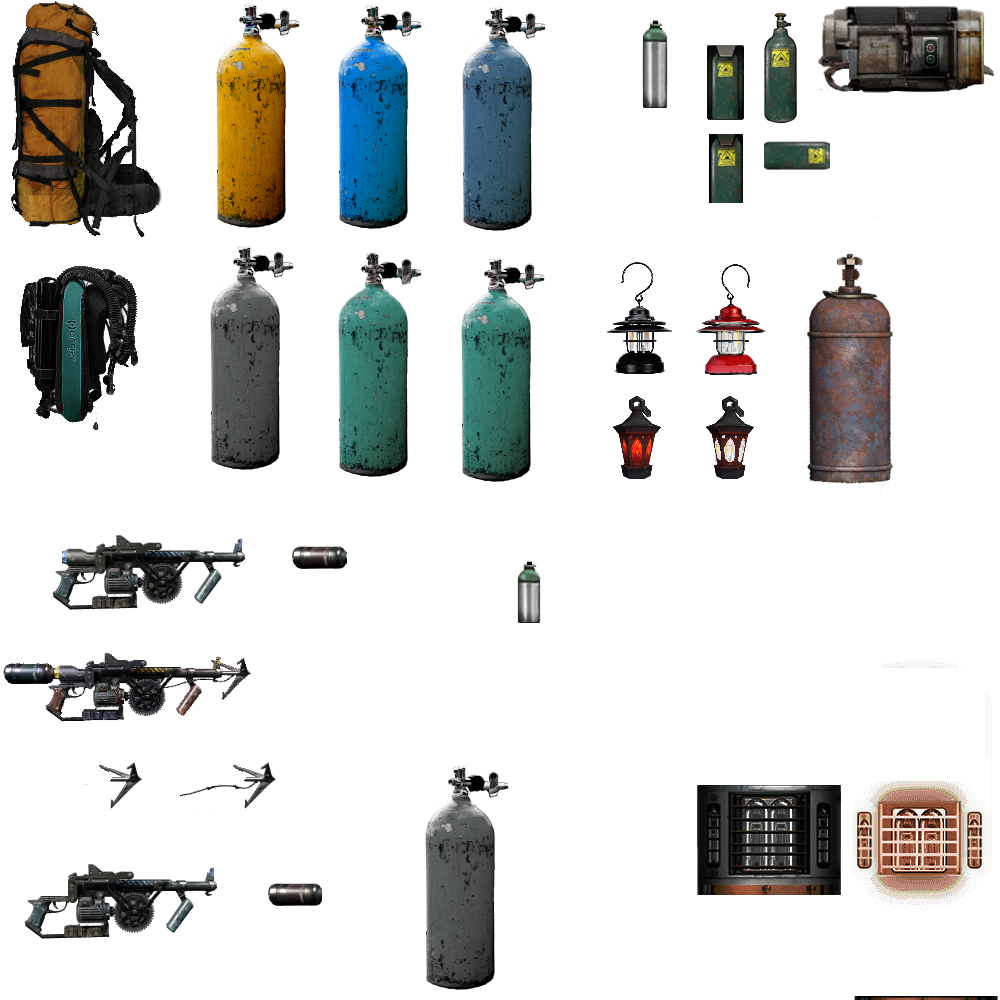
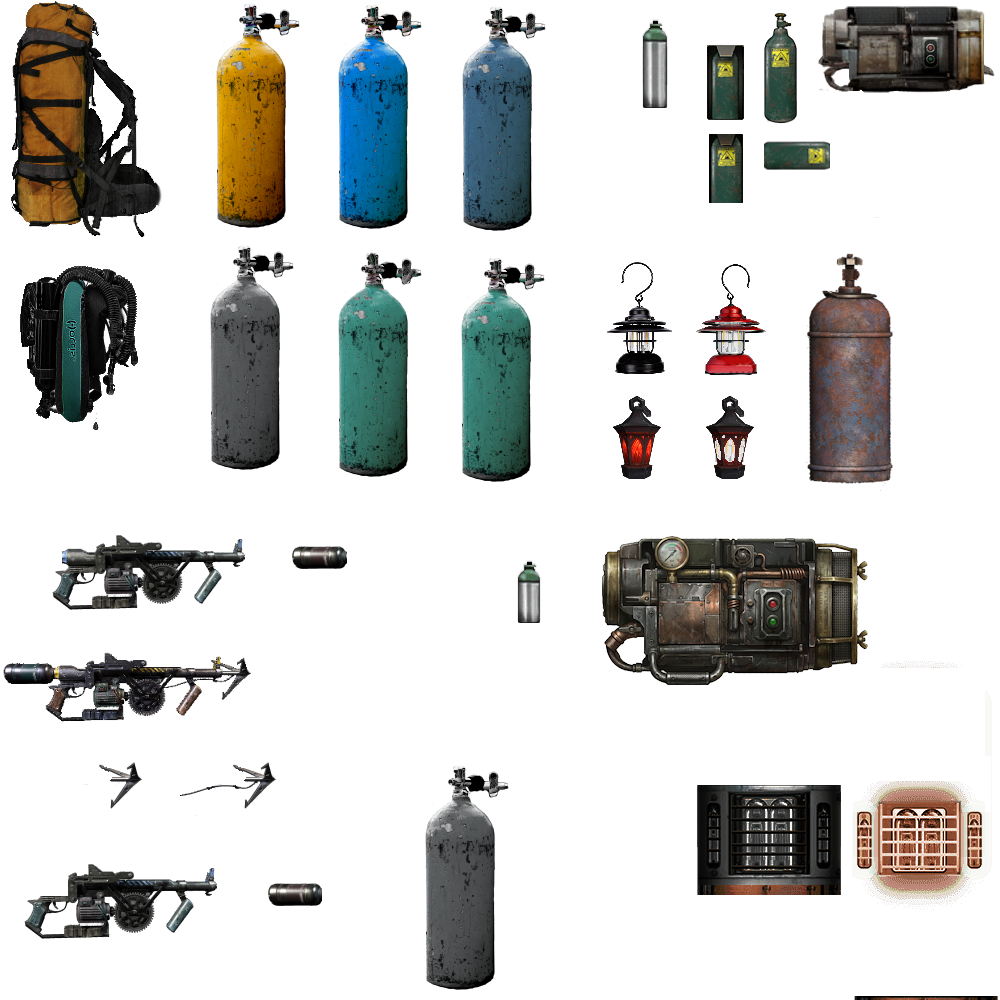
95.1. 1. Added a grapple gun in cave entrance. 2. Added a tooltip for junctionbox switch 3. Changed isgnal_out to mechanical for DieHard waterpump 4. Registered mechanical_slot for customed sprite UI. 5. Added a pipe sprite for mechanical connection 6. Fixed the red wire cannot be fabricated and los

Changed region(s): [[0.589, 0.527, 0.868, 0.682]]

diff --git a/CSharp/2.html b/CSharp/2.html
@@ -1,31 +1,22 @@
-<Item name="" identifier="extinguisherbracket" category="Equipment" tags="extinguisherholder,playinteractsound" canflipx="false" canflipy="false" scale="0.5" pickdistance="75" damagedbyexplosions="true" damagedbyprojectiles="true">
-      <Body width="72" height="204" />
-      <Sprite texture="containers.png" depth="0.84" sourcerect="815,349,72,204" origin="0.5,0.5" />
-      <ItemContainer hideitems="false" drawinventory="true" capacity="1" maxstacksize="1" slotsperrow="1" itempos="35,-130" iteminterval="0,0" itemrotation="0" canbeselected="true" msg="ItemMsgInteractSelect" autointeractwithcontained="true">
-        <GuiFrame relativesize="0.2,0.25" anchor="Center" minsize="140,170" maxsize="280,280" style="ItemUI" />
-        <Containable items="extinguisher" />
-        <StatusEffect type="OnBroken" target="Contained">
-          <Conditional hastag="eq fireextinguisher" />
-          <Remove />
-          <sound file="Content/Items/Weapons/ExplosionSmall1.ogg" range="5000" />
-          <sound file="Content/Items/Weapons/ExplosionDebris1.ogg" range="5000" />
-          <Explosion range="150.0" force="3">
-            <Affliction identifier="burn" strength="25" />
-            <Affliction identifier="stun" strength="5" />
-          </Explosion>
-          <SpawnItem identifier="extinguisher" spawnposition="This" condition="0" setvalue="ture" aimspread="10" rotationtype="Random" />
-        </StatusEffect>
-      </ItemContainer>
-      <Holdable selectkey="Select" pickkey="Use" slots="RightHand+LeftHand" msg="ItemMsgDetachWrench" PickingTime="10.0" aimpos="35,-10" handle1="0,0" attachable="true" attachedbydefault="true" aimable="true">
-        <requireditem identifier="wrench" type="Equipped" />
-      </Holdable>
-      <Repairable selectkey="Action" header="electricalrepairsheader" RepairThreshold="0" fixDurationHighSkill="5" fixDurationLowSkill="5" msg="ItemMsgRepairWrench" hudpriority="10">
-        <GuiFrame relativesize="0.2,0.16" minsize="400,180" maxsize="480,280" anchor="Center" relativeoffset="0.0,0.27" style="ItemUI" />
-        <RequiredSkill identifier="electrical" level="55" />
-        <RequiredItem items="wrench" type="equipped" />
-        <StatusEffect type="OnFire" target="This" Condition="-2" />
-      </Repairable>
-      <Upgrade gameversion="1.1.0.0" maxstacksize="64">
-        <ItemContainer maxstacksize="64" />
-      </Upgrade>
-    </Item>
+<Item name="" identifier="redwire" category="Electrical" Tags="smallitem,wire,electricalwire" maxstacksize="32" maxstacksizecharacterinventory="8" spritecolor="254,23,17,255" InventoryIconColor="254,23,17,255" canbepicked="true" cargocontaineridentifier="metalcrate" scale="0.5" impactsoundtag="impact_metal_light">
+    <Price baseprice="10">
+      <Price storeidentifier="merchantoutpost" />
+      <Price storeidentifier="merchantcity" sold="false"/>
+      <Price storeidentifier="merchantresearch" multiplier="1.25" />
+      <Price storeidentifier="merchantmilitary" />
+      <Price storeidentifier="merchantmine" />
+      <Price storeidentifier="merchantengineering" multiplier="0.9" />
+    </Price>
+    <PreferredContainer primary="engcab" amount="1" notcampaign="true" />
+    <PreferredContainer secondary="wreckengcab,abandonedengcab,pirateengcab,outpostengcab,beaconengcab" amount="1" spawnprobability="0.1" />
+    <Deconstruct time="1"/>
+    <Fabricate suitablefabricators="fabricator" requiredtime="5" amount="5">
+      <RequiredItem identifier="copper" />
+      <RequiredItem identifier="rubber" />
+    </Fabricate>
+    <InventoryIcon texture="Content/Items/InventoryIconAtlas.png" sourcerect="448,64,64,64" origin="0.5,0.5" />
+    <Sprite texture="signalcomp.png" depth="0.8" sourcerect="169,224,84,32" origin="0.5,0.5" />
+    <Body radius="14" width="60" density="15" />
+    <Holdable slots="Any,RightHand,LeftHand" handle1="0,0" msg="ItemMsgPickUpSelect" />
+    <Wire />
+  </Item>

diff --git a/CSharp/1.html b/CSharp/1.html
@@ -1,13 +1,20 @@
-<Item name="" identifier="extinguisherbracket" category="Equipment" tags="extinguisherholder" canflipx="false" canflipy="false" scale="0.5" pickdistance="75">
-    <Sprite texture="containers.png" depth="0.84" sourcerect="815,349,72,204" origin="0.5,0.5" />
-    <ItemContainer hideitems="false" drawinventory="true" capacity="1" AutoInteractWithContained="true" maxstacksize="1" slotsperrow="1" itempos="35,-130" iteminterval="0,0" itemrotation="0" canbeselected="true" msg="ItemMsgInteractSelect">
-      <GuiFrame relativesize="0.2,0.25" anchor="Center" minsize="140,170" maxsize="280,280" style="ItemUI" />
-      <Containable items="extinguisher" />
-    </ItemContainer>
-    <Upgrade gameversion="0.10.0.0" scale="*0.5" itempos="35,-130" />
-    <!-- the item used to have the (default) 64 max stack size, i.e. stack size was only limited by the max stack size of the contained items -->
-    <!-- set the stack size back in old saves/subs to prevent items from dropping from containers -->
-    <Upgrade gameversion="1.1.0.0" maxstacksize="64">
-      <ItemContainer maxstacksize="64" />
-    </Upgrade>
+<Item name="" identifier="redwire" category="Electrical" Tags="smallitem,wire,electricalwire" maxstacksize="32" maxstacksizecharacterinventory="8" spritecolor="255,0,0,255" InventoryIconColor="210,215,218,255" canbepicked="true" cargocontaineridentifier="metalcrate" scale="0.5" impactsoundtag="impact_metal_light" variantof="wire">
+    <Price baseprice="10">
+      <Price storeidentifier="merchantoutpost" />
+      <Price storeidentifier="merchantcity" sold="false"/>
+      <Price storeidentifier="merchantresearch" multiplier="1.25" />
+      <Price storeidentifier="merchantmilitary" />
+      <Price storeidentifier="merchantmine" />
+      <Price storeidentifier="merchantengineering" multiplier="0.9" />
+    </Price>
+    <PreferredContainer primary="engcab" />
+    <PreferredContainer secondary="wreckengcab,abandonedengcab,outpostengcab,beaconengcab" amount="1" spawnprobability="0.1" />
+    <Deconstruct time="1"/>
+    <InventoryIcon texture="Content/Items/InventoryIconAtlas.png" sourcerect="448,64,64,64" origin="0.5,0.5" />
+    <Sprite texture="signalcomp.png" depth="0.8" sourcerect="169,224,84,32" origin="0.5,0.5" />
+    <Body radius="14" width="60" density="15" />
+    <Holdable slots="Any,RightHand,LeftHand" handle1="0,0" msg="ItemMsgPickUpSelect" />
+    <Wire >
+      <WireSprite texture="%ModDir%/Items/Electricity/signalcomp.png" depth="0.855" sourcerect="968,118,16,16" origin="0.5,0.5" />
+    </Wire>
   </Item>

diff --git a/CSharp/Client/Connection_harmo.cs b/CSharp/Client/Connection_harmo.cs
@@ -1,0 +1,188 @@
+using Barotrauma.Items.Components;
+using Microsoft.Xna.Framework;
+using Microsoft.Xna.Framework.Graphics;
+using System;
+using System.Collections.Generic;
+using System.Linq;
+
+
+using Barotrauma;
+using HarmonyLib;
+using System.Globalization;
+using System.Reflection;
+using System.Net.NetworkInformation;
+
+
+
+namespace BarotraumaDieHard
+{
+    class ConnectionMod : IAssemblyPlugin
+    {
+        public Harmony harmony;
+		
+        public static bool hasZoomed = false;
+
+		public void Initialize()
+		{
+		    harmony = new Harmony("ConnectionMod");
+
+			
+			
+            var originalDrawConnection = typeof(Connection).GetMethod("DrawConnection", 
+                BindingFlags.Instance | BindingFlags.NonPublic);
+
+            harmony.Patch(originalDrawConnection, prefix: new HarmonyMethod(typeof(ConnectionMod).GetMethod(nameof(DrawConnectionPrefix))));
+
+
+			var originalDrawWire = typeof(Connection).GetMethod("DrawWire",
+				BindingFlags.Static | BindingFlags.NonPublic);
+			harmony.Patch(originalDrawWire, postfix: new HarmonyMethod(typeof(ConnectionMod).GetMethod(nameof(DrawWirePostfix))));
+        }
+
+		public void OnLoadCompleted() { }
+		public void PreInitPatching() { }
+
+		public void Dispose()
+		{
+		  harmony.UnpatchSelf();
+		  harmony = null;
+		}
+
+		public static Sprite MyMechanicalSprite;
+		
+		public static bool DrawConnectionPrefix(Connection __instance, SpriteBatch spriteBatch, ConnectionPanel panel, Vector2 position, Vector2 labelPos)
+		{
+			
+
+			
+			// 检查是否是目标接口
+			if (__instance.Name.Equals("mechanical", System.StringComparison.InvariantCultureIgnoreCase))
+			{
+				
+				string text = __instance.DisplayName.Value.ToUpperInvariant();
+				
+				// 从你已有的字典里获取贴图
+				if (GameSessionDieHard.customSprites.TryGetValue("mechanical_slot", out Sprite customSprite))
+				{
+					// 1. 绘制黄色标签
+					DrawMechanicalLabel(spriteBatch, text, labelPos);
+					
+
+					// 2. 计算你的插槽参数 (用于绘制和高亮检测)
+            float finalScale = (35.0f * GUI.Scale) / customSprite.SourceRect.Width;
+            Vector2 origin = new Vector2(customSprite.SourceRect.Width / 2f, customSprite.SourceRect.Height / 2f);
+            
+            // 计算逻辑尺寸和矩形 (用于高亮和拖拽检测)
+            Vector2 scaledSize = customSprite.size * finalScale;
+            // Rectangle 参数: (x, y, width, height) 中心点减去一半尺寸
+            Rectangle detectionArea = new Rectangle(
+                (int)(position.X - scaledSize.X / 2f),
+                (int)(position.Y - scaledSize.Y / 2f),
+                (int)scaledSize.X,
+                (int)scaledSize.Y
+            );
+
+            // 3. 自定义高亮检测 (方形区域检测)
+            bool isMouseOn = detectionArea.Contains(PlayerInput.MousePosition);
+            
+            // 绘制方形贴图
+            customSprite.Draw(spriteBatch, position, Color.White, origin: origin, scale: finalScale);
+
+            if (isMouseOn)
+            {
+                // 如果鼠标在方形内，使用你自定义的方形高亮 (或者原版的方形 glowSprite)
+                DrawMechanicalHighlight(spriteBatch, detectionArea);
+                
+                // 处理鼠标拖拽拔线逻辑 (复刻原版核心逻辑)
+                // 原版代码：if (isMouseOn) { // 处理拔线... }
+                // 我们在Prefix中无法直接触及原版的拔线具体方法，但可以设置静态变量引导原版逻辑
+                // 或者在这里处理自定义拖拽开始 (这取决于你如何注册 DraggingConnected)
+            }
+
+					return false; // 拦截原版绘制
+				}
+			}
+			return true; // 其他情况执行原版逻辑
+		}
+		
+		// 辅助方法：绘制特定样式的标签
+		private static void DrawMechanicalLabel(SpriteBatch spriteBatch, string text, Vector2 labelPos)
+		{
+			if (GUIStyle.GetComponentStyle("ConnectionPanelLabel")?.Sprites.Values.First().First() is UISprite labelSprite)
+			{
+				Vector2 textSize = GUIStyle.SmallFont.MeasureString(text);
+				Rectangle labelArea = new Rectangle(labelPos.ToPoint(), textSize.ToPoint());
+				labelArea.Inflate((int)(10 * GUI.Scale), (int)(3.2 * GUI.Scale));
+
+				// 保留背景，但颜色改为更深的暗蓝色或深红，以衬托黄色文字
+				labelSprite.Draw(spriteBatch, labelArea, Color.Brown * 0.7f); 
+			}
+
+			// 文字保持黄色
+			GUI.DrawString(spriteBatch, labelPos + Vector2.UnitY, text, Color.Black * 0.8f, font: GUIStyle.SmallFont);
+			GUI.DrawString(spriteBatch, labelPos, text, Color.White, font: GUIStyle.SmallFont);
+		}
+
+
+		// 辅助方法：绘制方形高亮框
+		private static void DrawMechanicalHighlight(SpriteBatch spriteBatch, Rectangle area)
+		{
+			// 如果你有方形高亮 Sprite：
+			// GameSessionDieHard.customSprites["mechanical_slot_glow"].Draw(spriteBatch, area, Color.White * 0.5f);
+			
+			// 或者简单的画一个方形边框
+			GUI.DrawRectangle(spriteBatch, area, Color.Green * 0.6f, isFilled: false, thickness: 2);
+		}
+
+
+		public static void DrawWirePostfix(SpriteBatch spriteBatch, Wire wire, Vector2 end, Vector2 start, Wire equippedWire, ConnectionPanel panel, LocalizedString label)
+		{
+			// 1. 静态方法没有 __instance，直接删掉该参数。
+			// 2. 基础防崩：如果线缆或面板不存在，直接退回原版逻辑
+			if (wire == null || panel == null) { return ; }
+
+			// 3. 核心：通过 wire 找到它在当前 panel 上的接口 (Connection)
+			// 线缆有两个端点，我们要找的是连接在当前这个面板上的那一头
+			var connection = wire.Connections.FirstOrDefault(c => c != null && c.Item == panel.Item);
+
+			// 4. 判断该接口是否为机械接口
+			if (connection != null && connection.Name.Equals("mechanical", StringComparison.InvariantCultureIgnoreCase))
+			{
+				if (GameSessionDieHard.customSprites.TryGetValue("water_pipe", out Sprite customWireSprite))
+				{
+					// --- 开始自定义绘制逻辑 ---
+					Vector2 diff = end - start;
+					float angle = (float)Math.Atan2(diff.Y, diff.X);
+					float length = diff.Length();
+
+					// 设置管道/线缆的起点中心
+					Vector2 origin = new Vector2(0, customWireSprite.SourceRect.Height / 2f);
+					
+					// X轴拉伸至两点间距，Y轴跟随全局UI缩放
+					Vector2 scale = new Vector2(length / customWireSprite.SourceRect.Width, GUI.Scale * 0.4f);
+
+					// 绘制
+					customWireSprite.Draw(
+						spriteBatch, 
+						start, 
+						Color.White, 
+						origin: origin, 
+						rotate: angle, 
+						scale: scale, 
+						depth: 0.95f);
+
+					//return false; // 拦截成功，不再运行原版画细线的逻辑
+				}
+			}
+
+			//return true; // 如果不是机械接口，正常执行原版画线逻辑
+		}
+
+        
+	}
+
+    
+
+
+    
+}

diff --git a/CSharp/Client/Turret_harmo.cs b/CSharp/Client/Turret_harmo.cs
@@ -36,10 +36,10 @@ namespace BarotraumaDieHard
             float bonusPercent = (speedMult - 1.0f) * 100f;
 
             // 2. 准备文本 (使用 .ToLocalizedString() 以匹配参数要求)
-            skillText =$"On Deck Weapon SKill: {character.GetSkillLevel("ondeckweapon"):F0}";
+            skillText = TextManager.Get("TurrentUIWeaponSkill") + $": {character.GetSkillLevel("ondeckweapon"):F0}";
             statText = (bonusPercent >= 0 
-                ? $"Firerate Bonus: {bonusPercent:F0}%" 
-                : $"Firerate Penalty: {bonusPercent:F0}%");
+                ? TextManager.Get("FirerateBonus") + $": {bonusPercent:F0}%" 
+                : TextManager.Get("FireratePenalty") + $": {bonusPercent:F0}%");
 
             // 3. 设置坐标 (右下角参考位置)
             Vector2 position = new Vector2(GameMain.GraphicsWidth - 300, GameMain.GraphicsHeight - 150);

diff --git a/CSharp/Shared/GameSession/GameSession_harmo.cs b/CSharp/Shared/GameSession/GameSession_harmo.cs
@@ -100,6 +100,9 @@ namespace BarotraumaDieHard
             AddTextureToSpriteList("battery_open_nodamage", "%ModDir%/Items/Electricity/poweritemopened.png", new Rectangle(0, 194, 158, 184), originPercentage: new Vector2(0.37f, 0.43f));
             AddTextureToSpriteList("battery_open_damage", "%ModDir%/Items/Electricity/poweritemopened.png", new Rectangle(196, 193, 158, 184), originPercentage: new Vector2(0.353f, 0.441f));
             AddTextureToSpriteList("battery_open_broken", "%ModDir%/Items/Electricity/poweritemopened.png", new Rectangle(389, 194, 159, 184), originPercentage: new Vector2(0.353f, 0.441f));
+            AddTextureToSpriteList("mechanical_slot", "%ModDir%/UI/ButtonUI.png", new Rectangle(93, 335, 56, 53), originPercentage: new Vector2(0.353f, 0.441f));
+            AddTextureToSpriteList("mechanical_slot_glow", "%ModDir%/UI/ButtonUI.png", new Rectangle(56, 436, 131, 121), originPercentage: new Vector2(0.353f, 0.441f));
+            AddTextureToSpriteList("water_pipe", "%ModDir%/UI/ButtonUI.png", new Rectangle(4, 624, 187, 69), originPercentage: new Vector2(0.353f, 0.441f));
 
 #endif
 

diff --git a/CSharp/Client/CustomJunctionBox.cs b/CSharp/Client/CustomJunctionBox.cs
@@ -26,6 +26,7 @@ namespace BarotraumaDieHard
             JBModeSwitch = new GUIButton(new RectTransform(new Vector2(0.6f, 0.6f), paddedFrame.RectTransform, Anchor.Center){ RelativeOffset = new Vector2(0,0) }, string.Empty, style: "SwitchDieHardJBButton")
             {
                 //UserData = UIHighlightAction.ElementId.torpedoModeSwitch,
+                ToolTip = TextManager.Get("CustomJunctionBoxSwitchTip"),
                 Selected = false,
                 Enabled = true,
                 ClickSound = GUISoundType.UISwitch,